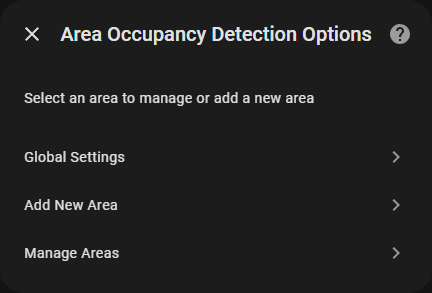
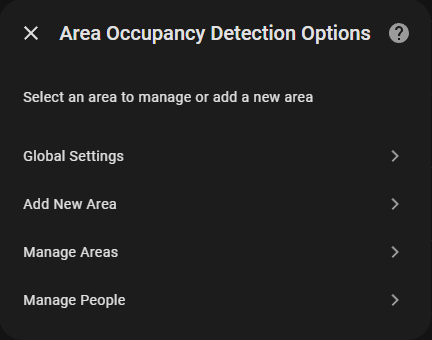
Update documentation and images for Area Occupancy Detection configuration and installation

diff --git a/README.md b/README.md
@@ -14,33 +14,21 @@ Have you ever had your lights turn off while you're still in the room? Or watche
 
 **Area Occupancy Detection** solves these real-world problems by thinking more intelligently about what "occupied" really means. Instead of just checking if motion was detected, it combines multiple clues, learns from your patterns, and calculates the probability that someone is actually there.
 
-**Area Occupancy Detection doesn't automate anything for you**—it provides the intelligent occupancy information you need to create reliable automations. AOD creates sensors that your automations can use to control lights, heating, and other devices. Think of AOD as the "smart sensor" that gives your automations better data to work with.
+**Replace Dozens of Templates and Groups** it provides the intelligent occupancy information you need to create reliable automations. AOD creates sensors that your automations can use to control lights, heating, and other devices. Without AOD this means setting up lots of groups, template sensors and jinja logic, with AOD you just give it all the entities and it creates reliable entities for you.
+
+![Probability Cards](docs/docs/images/probability-cards.png)
 
 ## The Quick Answer
 
 **Here's why AOD is different:**
 
-**HA**: "Motion detected? Occupied. Motion stopped? Not occupied."
-
-🎯 **AOD**: "Let me check motion, TV, doors, appliances, learned patterns, and time of day... 75% confident someone is there."
-
-**HA**: You configure everything manually. It never learns.
-
-🧠 **AOD**: Learns from your history automatically. Gets smarter over time. Knows you're usually in the kitchen Sunday mornings.
-
-**Core HA**: One sensor fails → wrong answer.
-
-🔀 **AOD**: Combines multiple sensors intelligently. If motion misses you, TV being on maintains occupancy probability → your automations keep lights on.
-
-**Core HA**: Motion stops → occupancy sensor turns off → automations turn lights off immediately.
-
-⏱ **AOD**: Motion stops → probability gradually decreases → occupancy sensor stays on longer → your automations keep lights on while you sit still.
-
-**Core HA**: Basic features only.
-
-✨ **AOD**: Activity detection (what's happening, not just who's there), sleep presence tracking, "Wasp in Box" for bathrooms, whole-home aggregation, purpose-based defaults.
-
-**The bottom line:** AOD provides intelligent occupancy sensors that your automations can use. It learns, adapts, and understands context—so when you build automations that respond to occupancy, they work reliably instead of turning lights off while you're still in the room.
+| HA                                             | AOD                                                                                                                                           |
+| ---------------------------------------------- | --------------------------------------------------------------------------------------------------------------------------------------------- |
+| Motion On. Occupied. Motion Off. Not occupied. | Checks motion, TV, doors, appliances, history, time of day... 75% confident someone is there.                                                 |
+| No Learning                                    | Learns from your history automatically. Gets smarter over time. Knows you're usually in the kitchen Sunday mornings.                          |
+| One sensor fails → wrong answer.               | Combines multiple sensors intelligently. If motion misses you, TV being on maintains occupancy probability → your automations keep lights on. |
+| Needs automation timeouts to keep lights on    | Motion stops → probability gradually decreases → occupancy sensor stays on longer → your automations keep lights on while you sit still.      |
+| No Native Activity Detection                   | Activity detection (what's happening), sleep presence tracking, "Wasp in Box" for bathrooms, whole-home aggregation, purpose-based defaults.  |
 
 ## Creating Automations with AOD
 
@@ -66,18 +54,18 @@ AOD creates sensors that your automations can use:
 - **Prior Probability**: Baseline from learned patterns - useful for monitoring and debugging
 - **Threshold**: Adjustable setting - fine-tune without reconfiguration
 
+![Probability Cards](docs/docs/images/exposed_sensors.png)
+
 ### How You Use It
 
 You create automations that respond to AOD's sensors. For example:
 
 - **Turn lights on** when occupancy status turns `on`
-- **Turn lights off** when occupancy status turns `off` (with a delay to prevent flickering)
+- **Turn lights off** when occupancy status turns `off`
 - **Adjust heating** based on occupancy probability
 - **Dim lights gradually** as probability decreases
 
 The key difference: AOD provides intelligent occupancy data. You decide what actions to take based on that data.
-
-![Probability Cards](docs/docs/images/probability-cards.png)
 
 ## Documentation
 
@@ -129,36 +117,23 @@ AOD is extensively documented [here](https://hankanman.github.io/Area-Occupancy-
 3. **Search for Area Occupancy Detection:** Search for "Area Occupancy Detection" and select then **Download**.
 4. **Restart Home Assistant:** After the download is complete, restart your Home Assistant instance
 
+When you first create the integration you will be taken straight to configuring the first area.
+
+When adding new areas you will need to navigate to **Integrations** -> **Area Occupancy Detection** -> **Configure (⚙ Cog icon)**. This will bring up the configuration menu.
+
+There is detailed documentation on the configuration options here: [Configuration](https://hankanman.github.io/Area-Occupancy-Detection/getting-started/configuration/).
+
+Almost every option in the config is optional, sensible defaults are available for eveything. The minimum configuration for an area is:
+
+- A Home Assistant Area. Must exist in Home Assistant first, [see here to set up areas](https://www.home-assistant.io/docs/organizing/areas/)
+- A Purpose. What the room is used for, [see more about purposes here](https://hankanman.github.io/Area-Occupancy-Detection/features/purpose/)
+- 1 Motion sensor. A physical device in the area like PIR, mmWave
+
+The integration will work with just these configured. Everything else can be added as you get new devices. However the more you add in, the more accurate the predictions will be.
+
 ## Entities Created
 
-The integration creates the following entities for each configured area. An "All Areas" aggregation device is also created automatically. See the [Entities documentation](https://hankanman.github.io/Area-Occupancy-Detection/features/entities/) for full details.
-
-### Primary Entities
-
-| Entity | Type | Description |
-| --- | --- | --- |
-| `binary_sensor.[area]_occupancy_status` | Binary Sensor | `on` when probability meets threshold, `off` otherwise |
-| `sensor.[area]_occupancy_probability` | Sensor (%) | Current occupancy probability (1-99%) |
-| `number.[area]_occupancy_threshold` | Number (%) | Adjustable threshold for occupancy status (1-99%) |
-| `sensor.[area]_detected_activity` | Sensor (enum) | Current activity: showering, cooking, watching_tv, working, sleeping, idle, etc. |
-
-### Diagnostic Entities
-
-| Entity | Type | Description |
-| --- | --- | --- |
-| `sensor.[area]_presence_confidence` | Sensor (%) | Probability from presence indicators only (motion, media, covers, etc.) |
-| `sensor.[area]_environmental_confidence` | Sensor (%) | Environmental support (50% = neutral, >50% supports occupancy) |
-| `sensor.[area]_prior_probability` | Sensor (%) | Learned baseline probability from historical patterns |
-| `sensor.[area]_evidence` | Sensor | Lists active/inactive sensors with detailed per-entity information |
-| `sensor.[area]_decay_status` | Sensor (%) | Decay progress when probability is decreasing |
-| `sensor.[area]_activity_confidence` | Sensor (%) | Confidence in the detected activity |
-
-### Optional Entities
-
-| Entity | Type | Description |
-| --- | --- | --- |
-| `binary_sensor.[area]_sleeping` | Binary Sensor | Sleep presence — `on` when people are sleeping (requires People configuration) |
-| `binary_sensor.[area]_wasp_in_box` | Binary Sensor | Wasp in Box — maintains occupancy when door closes after motion (requires enabling) |
+The integration creates entities for each configured area. An "All Areas" aggregation device is also created automatically. See the [Entities documentation](https://hankanman.github.io/Area-Occupancy-Detection/features/entities/) for full details.
 
 ## Debugging
 

diff --git a/docs/docs/getting-started/installation.md b/docs/docs/getting-started/installation.md
@@ -31,6 +31,16 @@ When adding new areas you will need to navigate to **Integrations** -> **Area Oc
 
 There is detailed documentation on the configuration options here: [Configuration](configuration.md).
 
+### Before You Start
+
+Almost every option in the config is optional, sensible defaults are available for eveything. The minimum configuration for an area is:
+
+- A Home Assistant Area. Must exist in Home Assistant first, [see here to set up areas](https://www.home-assistant.io/docs/organizing/areas/)
+- A Purpose. What the room is used for, [see more about purposes here](../features/purpose.md)
+- 1 Motion sensor. A physical device in the area like PIR, mmWave
+
+The integration will work with just these configured. Everything else can be added as you get new devices. However the more you add in, the more accurate the predictions will be.
+
 ### Main Menu
 
 The main menu allows you to modify global settings, add a new area, manage existing areas, or manage people for sleep presence detection.
@@ -56,6 +66,14 @@ The manage areas menu allows you to manage existing areas, you can see a summary
 ![Manage Areas](../images/config_manage_areas.png)
 
 ![Manage Area](../images/config_manage_area.png)
+
+### Manage People
+
+The manage people menu allows you to add and configure people associated with your home, they must be set up as people in Home Assistant first so they can be selected in the people picker. Choosing entities for sleep confidence and device tracking (from HA Companion app for example) allows AOD to track sleep for a given area. Choosing an area for a person essentially defines their bedroom.
+
+![Manage People](../images/config_manage_people.png)
+
+![Manage Person](../images/config_manage_person.png)
 
 ## Getting Help
 

diff --git a/docs/docs/getting-started/configuration.md b/docs/docs/getting-started/configuration.md
@@ -2,6 +2,16 @@
 
 Area Occupancy Detection is built for simplicity: just specify the sensors available in each area and a purpose, the integration will then intelligently handle occupancy detection for you. While some customization options are available, the system’s powerful history-based intelligence learns your habits over time—automatically refining its accuracy without constant manual tweaking.
 
+### Before You Start
+
+Almost every option in the config is optional, sensible defaults are available for eveything. The minimum configuration for an area is:
+
+- A Home Assistant Area. Must exist in Home Assistant first, [see here to set up areas](https://www.home-assistant.io/docs/organizing/areas/)
+- A Purpose. What the room is used for, [see more about purposes here](../features/purpose.md)
+- 1 Motion sensor. A physical device in the area like PIR, mmWave
+
+The integration will work with just these configured. Everything else can be added as you get new devices. However the more you add in, the more accurate the predictions will be.
+
 ## Purpose
 
 The first step after naming the area is choosing its [Purpose](../features/purpose.md). This sets a sensible default for the [decay](../features/decay.md) half life used when probability decreases. [Decay](../features/decay.md) half life affects how quickly the system reduces the probability of occupancy after activity stops. This essentially works like a gradual timeout for the area.
